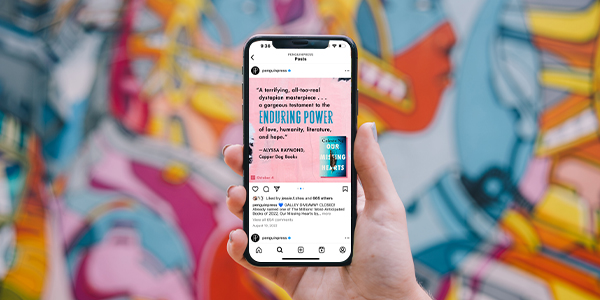
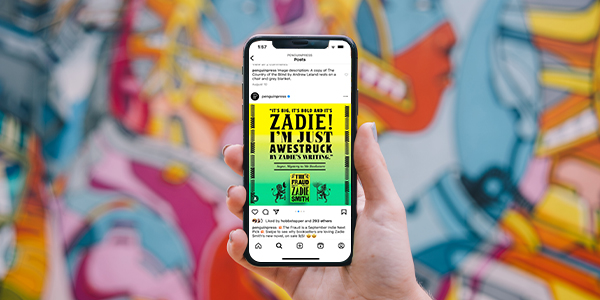
Overhaul on social shares
Updated graphics, description, and added The MANIAC cover animation

Changed region(s): [[0.39, 0.18, 0.6, 0.84], [0.54, 0.15, 0.57, 0.18], [0.42, 0.15, 0.45, 0.18]]

diff --git a/socialshares.html b/socialshares.html
@@ -51,7 +51,7 @@
 <h3>Social shares</h3>
             <div class="plink">
 	<p>
-		These graphics are shared by authors, individual imprint channels, and sometimes the larger Penguin Random House page on Instagram and Twitter. The challenge is to create a design that works with an existing book cover, instead of starting from scratch. I do this by using the cover assets or creating my own, carefully keeping the target audience and content in mind.
+		These graphics are shared by authors, individual imprint channels, and sometimes the larger Penguin Random House page on Instagram and Twitter. The book cover and target audience for the title helps guide the designs.
 
  </p>
  <p>
@@ -75,7 +75,7 @@
     <div class="hidden-lg hidden-md col-sm-12 col-xs-12">
 <h3>Social shares</h3>
          <div class="plink">
-	<p>  These graphics are shared by authors, individual imprint channels, and sometimes the larger Penguin Random House page on Instagram and Twitter. The challenge is to create a design that works with an existing book cover, instead of starting from scratch. I do this by using the cover assets or creating my own, carefully keeping the target audience and content in mind. 
+	<p>  These graphics are shared by authors, individual imprint channels, and sometimes the larger Penguin Random House page on Instagram and Twitter. The book cover and target audience for the title helps guide the designs.
 	</p>
 <p>Designed at Penguin Random House.</p>       
 </div>
@@ -87,7 +87,7 @@
 
 	<div class="largeimage">
 		<div class="col-lg-offset-3 col-lg-10 col-md-offset-3 hidden-sm hidden-xs">
-	<img class="img-responsive center-block" src="Images/MissingHearts_socialshares.jpg"/>
+	<img class="img-responsive center-block" src="Images/socialshares_Fraud.png"/>
 			<div class="artdesc">
 
 				</div>
@@ -96,7 +96,7 @@
 
      <div class="largeimagemobile">
 		<div class="hidden-lg hidden-md col-sm-12 col-xs-12">
-	<img class="img-responsive center-block padtop" src="Images/MissingHearts_socialshares.jpg"/>
+	<img class="img-responsive center-block padtop" src="Images/socialshares_Fraud.png"/>
 <div class="artdesc">
 
 				</div>
@@ -110,7 +110,7 @@
 
 	<div class="largeimage">
 		<div class="col-lg-offset-3 col-lg-10 col-md-offset-3 hidden-sm hidden-xs">
-	<img class="img-responsive center-block" src="Images/socialshares_kismet.jpg"/>
+	<img class="img-responsive center-block" src="Images/socialshares_TannerLouise.png"/>
 			<div class="artdesc">
 
 				</div>
@@ -119,7 +119,7 @@
 
      <div class="largeimagemobile">
 		<div class="hidden-lg hidden-md col-sm-12 col-xs-12">
-	<img class="img-responsive center-block" src="Images/socialshares_kismet.jpg"/>
+	<img class="img-responsive center-block" src="Images/socialshares_TannerLouise.png"/>
 <div class="artdesc">
 
 				</div>
@@ -132,7 +132,7 @@
 
 <div class="largeimagemobile">
 	<div class="hidden-lg hidden-md col-sm-12 col-xs-12">
-<img class="img-responsive center-block" src="Images/socialshares_tannerandlouise.jpg"/>
+<img class="img-responsive center-block" src="Images/socialshares_MANIAC.png"/>
 <div class="artdesc">
 
 			</div>
@@ -142,7 +142,7 @@
 
 <div class="largeimage">
 	<div class="col-lg-offset-3 col-lg-10 col-md-offset-3 hidden-sm hidden-xs">
-<img class="img-responsive center-block" src="Images/socialshares_tannerandlouise.jpg"/>
+<img class="img-responsive center-block" src="Images/socialshares_MANIAC.png"/>
 		<div class="artdesc">
 
 			</div>
@@ -154,7 +154,7 @@
 
 <div class="largeimage">
 	<div class="col-lg-offset-3 col-lg-10 col-md-offset-3 hidden-sm hidden-xs">
-<img class="img-responsive center-block" src="Images/Socialshares_game_2.jpg"/>
+<img class="img-responsive center-block" src="Images/socialshares_Kismet.png"/>
 		<div class="artdesc">
 
 			</div>
@@ -163,7 +163,7 @@
 
  <div class="largeimagemobile">
 	<div class="hidden-lg hidden-md col-sm-12 col-xs-12">
-<img class="img-responsive center-block" src="Images/Socialshares_game_2.jpg"/>
+<img class="img-responsive center-block" src="Images/socialshares_Kismet.png"/>
 <div class="artdesc">
 
 			</div>
@@ -176,7 +176,7 @@
 
 <div class="largeimage">
 	<div class="col-lg-offset-3 col-lg-10 col-md-offset-3 hidden-sm hidden-xs">
-<img class="img-responsive center-block" src="Images/Socialshares_maryoliver.jpg"/>
+<img class="img-responsive center-block" src="Images/socialshares_ClimateBook.png"/>
 		<div class="artdesc">
 
 			</div>
@@ -185,7 +185,7 @@
 
 <div class="largeimagemobile">
 	<div class="hidden-lg hidden-md col-sm-12 col-xs-12">
-<img class="img-responsive center-block" src="Images/Socialshares_maryoliver.jpg"/>
+<img class="img-responsive center-block" src="Images/socialshares_ClimateBook.png"/>
 <div class="artdesc">
 
 			</div>
@@ -195,7 +195,7 @@
 
 	<div class="largeimage">
 	<div class="col-lg-offset-3 col-lg-10 col-md-offset-3 hidden-sm hidden-xs">
-<img class="img-responsive center-block" src="Images/socialshares_premonitions.jpg"/>
+<img class="img-responsive center-block" src="Images/socialshares_GAME.png"/>
 		<div class="artdesc">
 
 			</div>
@@ -206,7 +206,7 @@
 
  <div class="largeimagemobile">
 	<div class="hidden-lg hidden-md col-sm-12 col-xs-12">
-<img class="img-responsive center-block" src="Images/socialshares_premonitions.jpg"/>
+<img class="img-responsive center-block" src="Images/socialshares_GAME.png"/>
 <div class="artdesc">
 
 			</div>
@@ -218,62 +218,6 @@
 
 
 
-
-<div class="largeimage">
-	<div class="col-lg-offset-3 col-lg-10 col-md-offset-3 hidden-sm hidden-xs">
-<img class="img-responsive center-block" src="Images/socialshares_pappyland.jpg"/>
-		<div class="artdesc">
-
-			</div>
-	</div>
-</div>
-
- <div class="largeimagemobile">
-	<div class="hidden-lg hidden-md col-sm-12 col-xs-12">
-<img class="img-responsive center-block" src="Images/socialshares_pappyland.jpg"/>
-<div class="artdesc">
-
-			</div>
-	</div>
-</div>
-
-
-<div class="largeimage">
-	<div class="col-lg-offset-3 col-lg-10 col-md-offset-3 hidden-sm hidden-xs">
-<img class="img-responsive center-block" src="Images/socialshares_awe_2.jpg"/>
-		<div class="artdesc">
-
-			</div>
-	</div>
-</div>
-
- <div class="largeimagemobile">
-	<div class="hidden-lg hidden-md col-sm-12 col-xs-12">
-<img class="img-responsive center-block" src="Images/socialshares_awe_2.jpg"/>
-<div class="artdesc">
-
-			</div>
-	</div>
-</div>
-        
-        
-        <div class="largeimage">
-	<div class="col-lg-offset-3 col-lg-10 col-md-offset-3 hidden-sm hidden-xs">
-<img class="img-responsive center-block" src="Images/Socialshares_climatebook.jpg"/>
-		<div class="artdesc">
-
-			</div>
-	</div>
-</div>
-
- <div class="largeimagemobile">
-	<div class="hidden-lg hidden-md col-sm-12 col-xs-12">
-<img class="img-responsive center-block" src="Images/Socialshares_climatebook.jpg"/>
-<div class="artdesc">
-
-			</div>
-	</div>
-</div>
 
 
 

diff --git a/videos.html b/videos.html
@@ -81,6 +81,32 @@
 	
     
   
+        
+        	<div class="largeimage">
+		<div class="col-lg-offset-3 col-lg-10 col-md-offset-3 hidden-sm hidden-xs">
+	<div class="embed-responsive embed-responsive-1by1">
+  <iframe class="embed-responsive-item" src="https://player.vimeo.com/video/865169961?badge=0&amp;autopause=0&amp;player_id=0&amp;app_id=58479" allowfullscreen></iframe>
+</div>
+			<div class="artdescvid">
+Jacket design by Bennett Miller
+              <p>
+                <br>
+                </p>
+				</div>
+		</div>
+	</div>
+        
+     <div class="largeimagemobile">
+		<div class="hidden-lg hidden-md col-sm-12 col-xs-12">
+	<div class="embed-responsive padtop embed-responsive-1by1-mobile">
+  <iframe class="embed-responsive-item" src="https://player.vimeo.com/video/865169961?badge=0&amp;autopause=0&amp;player_id=0&amp;app_id=58479" allowfullscreen></iframe>
+</div>
+<div class="artdescvid">
+	Jacket design by Bennett Miller
+				</div>
+		</div>
+	</div>
+        
          
 
 	<div class="largeimage">
